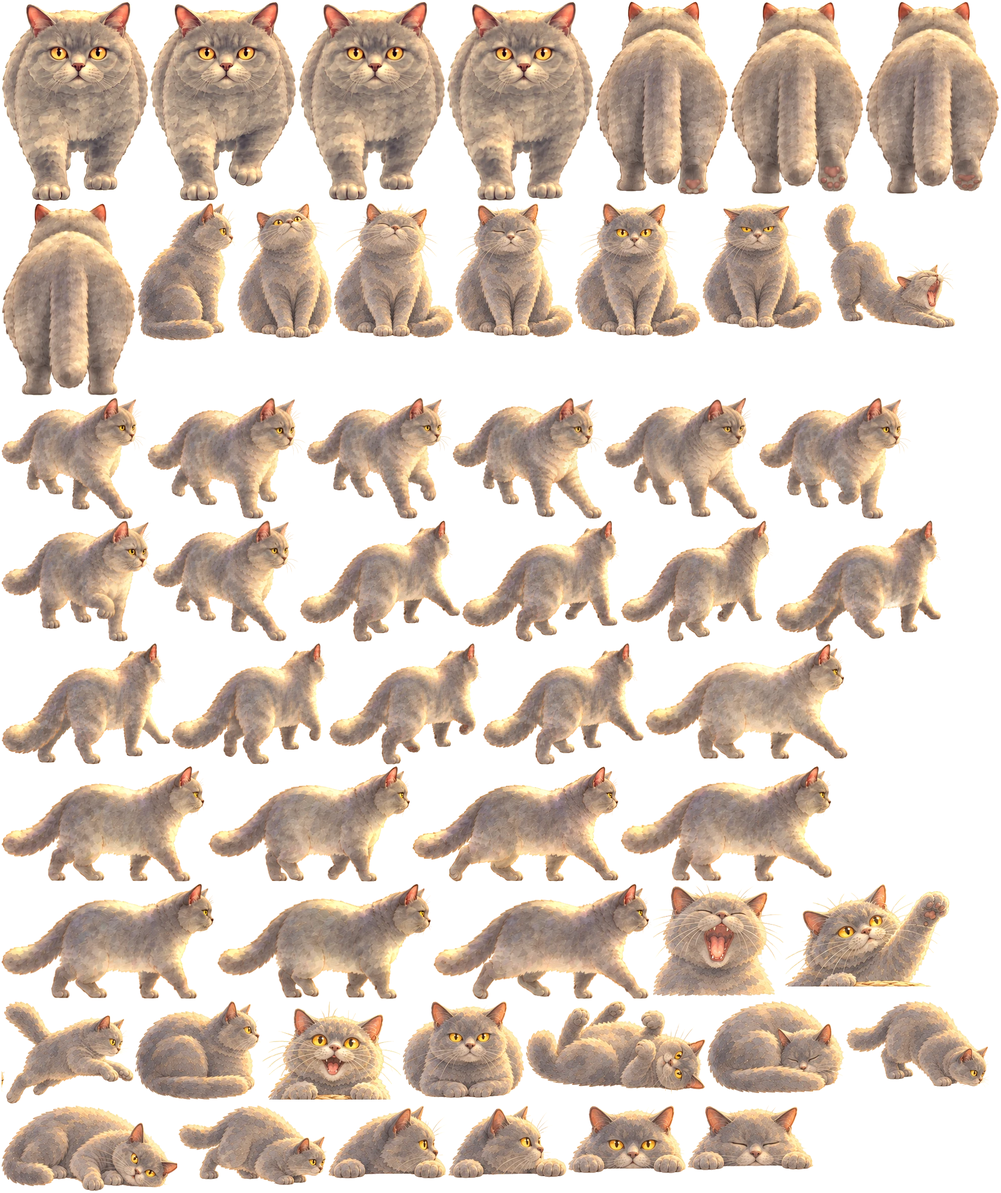
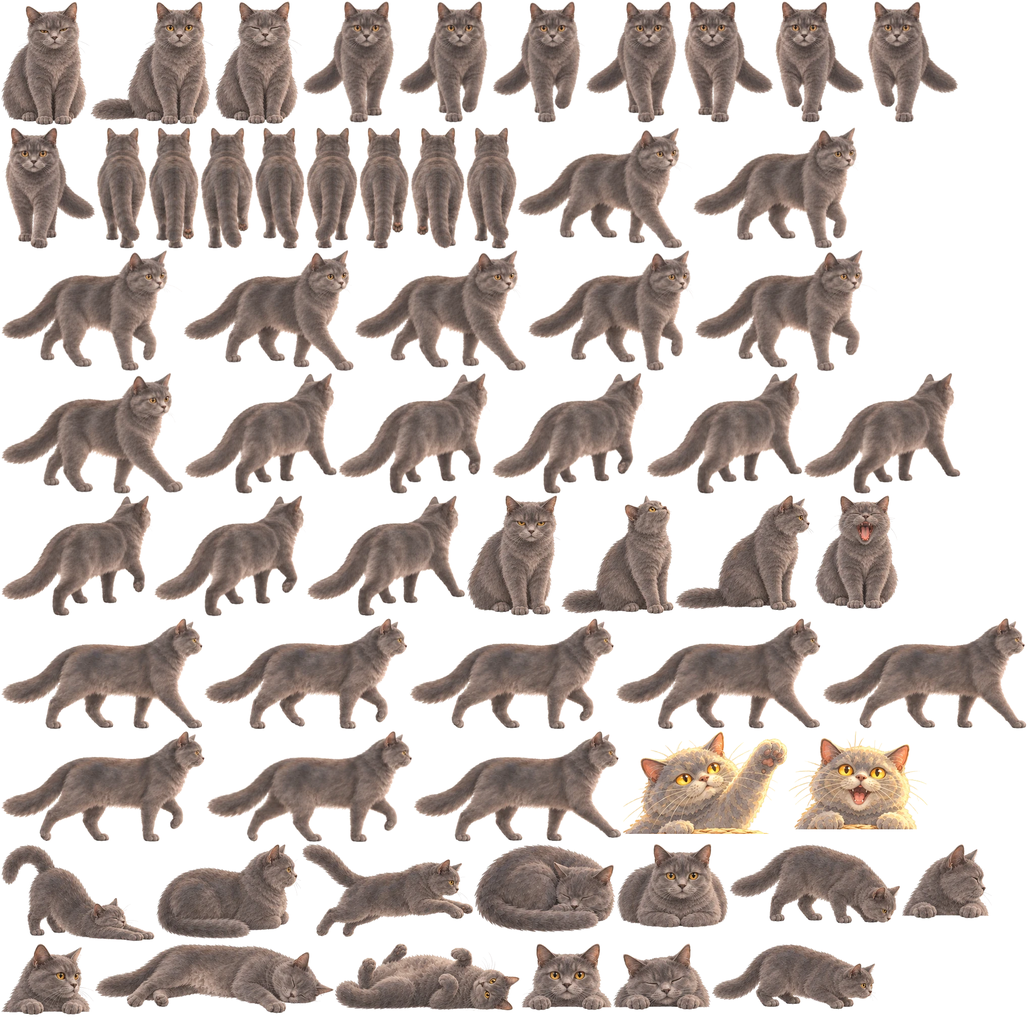
Erwu redrawn: the v3 poses and walks replace her in-game art
- The art build packs the v3 sheets (assets/erwu-v3): twenty poses by
  hand-set regions under their old names, and eight-frame walks side-on,
  toward, away and both diagonals, all recoloured to the poses sheet.
- Toward and away sheets with a whole stride are played as drawn; a
  four-frame sheet is still mirrored for its other half.
- Straight-on walks anchor on her head, so a tail held to one side no
  longer shifts her body sideways.
- The v3 notes list what's left: the diagonals repeat one leg, the tail
  swaps sides walking toward us, she's narrow from behind, and her swat
  and delighted poses are still the old art; with prompts for each.

Claude-Session: https://claude.ai/code/session_01GWXKSyEvwFsod5xmdCeR4s

diff --git a/art-manifest.js b/art-manifest.js
@@ -1,5 +1,5 @@
 /* Generated by tools/build-art.cjs from the painted source sheets in assets/. Do not edit by hand. */
 (function (root) { 'use strict';
-  const ART = {"note":"frame: [x, y, w, h, anchorX, anchorY, sourceX, sourceY, bedRimWidth?]; anchors are where a piece meets the ground","erwu":{"src":"assets/erwu.webp","size":[1983,2363],"frames":{"sit-front":[1139,402,249,265,125,265,39,45],"sit-drowsy":[902,402,234,266,117,266,321,44],"sit-content":[661,402,238,267,119,267,579,44],"curl":[1400,1983,273,183,137,183,834,129],"sniff":[1676,1983,283,172,142,172,7,380],"stalk":[354,2189,294,159,147,159,292,393],"pounce":[3,1983,262,203,131,203,578,344],"stretch":[1631,402,261,249,131,249,852,321],"loaf":[798,1983,241,192,121,192,27,638],"sit-side":[272,402,195,273,98,273,299,568],"belly-up":[1042,1983,355,184,178,184,495,662],"yawn":[1294,1750,258,223,129,223,851,618],"peek":[1126,2189,233,136,117,136,25,902],"peek-glance":[651,2189,234,147,117,147,296,891],"peek-turn":[888,2189,235,146,118,146,568,893],"peek-sleepy":[1362,2189,250,130,125,130,842,910],"look-up":[470,402,188,269,94,269,632,1055],"sit-grumpy":[1391,402,237,250,119,250,868,1076],"lie-side":[3,2189,348,171,174,171,11,1137],"loaf-side":[268,1983,249,196,125,196,360,1119],"walk-0":[1278,1274,402,230,238,230,22,158],"walk-1":[3,1517,406,230,240,230,451,159],"walk-2":[412,1517,401,230,241,230,890,159],"walk-3":[816,1517,410,230,250,230,1323,158],"walk-4":[1229,1517,421,230,246,230,24,503],"walk-5":[3,1750,424,230,251,230,452,504],"walk-6":[430,1750,426,230,252,230,888,508],"walk-7":[859,1750,432,230,257,230,1320,504],"walk-front-0":[3,3,291,396,147,396,79,215],"walk-front-1":[297,3,291,396,146,396,522,215],"walk-front-2":[591,3,291,396,147,396,963,215],"walk-front-3":[885,3,291,396,147,396,1406,215],"walk-back-0":[1179,3,264,383,133,383,88,243],"walk-back-1":[1446,3,265,383,134,383,533,242],"walk-back-2":[1714,3,266,383,134,383,975,243],"walk-back-3":[3,402,266,383,134,383,1419,242],"walk-diag-front-0":[3,788,286,240,147,240,371,215],"walk-diag-front-1":[292,788,313,240,162,240,367,215],"walk-diag-front-2":[608,788,286,240,149,240,369,215],"walk-diag-front-3":[897,788,297,240,153,240,372,215],"walk-diag-front-4":[1197,788,303,240,158,240,442,148],"walk-diag-front-5":[1503,788,302,240,157,240,370,214],"walk-diag-front-6":[3,1031,297,240,163,240,440,153],"walk-diag-front-7":[303,1031,288,240,148,240,371,215],"walk-diag-back-0":[594,1031,318,240,196,240,420,151],"walk-diag-back-1":[915,1031,312,240,203,240,418,151],"walk-diag-back-2":[1230,1031,303,240,191,240,370,135],"walk-diag-back-3":[1536,1031,330,240,215,240,416,151],"walk-diag-back-4":[3,1274,334,240,212,240,418,150],"walk-diag-back-5":[340,1274,309,240,202,240,420,151],"walk-diag-back-6":[652,1274,302,240,196,240,419,150],"walk-diag-back-7":[957,1274,318,240,197,240,418,150],"swat":[1555,1750,326,204,163,204,775,820],"delighted":[520,1983,275,195,138,195,1102,829]}},"garden":{"src":"assets/garden.webp","size":[2032,1938],"frames":{"rose-bed":[3,3,442,403,221,403,17,17],"fountain":[898,3,288,386,144,386,481,29],"log":[461,409,447,337,224,337,792,99],"cushion":[1686,1084,343,205,172,205,34,455],"stone":[834,1692,292,148,146,148,470,492],"step-0":[191,1852,186,81,93,81,903,443],"step-1":[3,1852,185,83,93,83,1043,488],"step-2":[1614,1692,193,101,97,101,819,520],"step-3":[1810,1692,200,95,100,95,991,569],"bed-empty":[1034,1084,384,233,192,233,21,685,385],"bed-seedlings":[658,1084,373,236,187,236,439,687,385],"bed-young":[3,1084,391,251,196,251,841,675,385],"bed-full":[911,409,401,305,201,305,19,919,385],"grass":[1315,409,401,302,201,302,426,926],"meadow":[3,782,410,299,205,299,828,927],"bloom-cosmos":[1731,782,258,253,129,253,11,153,259],"bloom-catnip":[1466,782,262,257,131,257,370,153,259],"bloom-sunflower":[416,782,261,279,131,279,731,122,259],"bloom-moonflower":[1203,782,260,259,130,259,1094,149,259],"bloom-dandelion":[397,1084,258,245,129,245,11,600,259],"bloom-bleeding-heart":[680,782,260,266,130,266,369,570,259],"bloom-strawberry":[1421,1084,262,227,131,227,729,624,259],"bloom-lavender":[943,782,257,260,129,260,1094,580,259],"clump-daisy":[1310,1526,163,157,82,157,29,50],"clump-forget":[484,1526,160,161,80,161,351,42],"clump-cosmos":[3,1526,151,163,76,163,660,38],"clump-lavender":[158,1338,154,175,77,175,962,20],"clump-clover":[1476,1526,157,157,79,157,32,358],"clump-buttercup":[473,1338,155,170,78,170,350,342],"clump-foxglove":[3,1338,152,185,76,185,663,319],"clump-bluebell":[631,1338,158,170,79,170,964,343],"clump-rose":[792,1338,169,168,85,168,26,640],"clump-fern":[166,1692,182,156,91,156,327,655],"clump-grass":[1636,1526,174,157,87,157,648,651],"clump-mushroom":[1467,1692,144,126,72,126,978,711],"clump-wild":[1472,1338,173,165,87,165,25,946],"clump-sweetpea":[315,1338,155,172,78,172,356,934],"clump-cornflower":[157,1526,155,163,78,163,661,948],"clump-leafy":[1295,1692,169,141,84,141,955,980],"clump-tulip":[679,1692,152,149,76,149,33,53],"clump-peony":[1813,1526,161,157,81,157,339,38],"clump-poppy":[647,1526,157,160,78,160,654,34],"clump-aster":[515,1692,161,151,81,151,961,52],"clump-crocus":[1129,1692,163,142,81,142,24,361],"clump-daffodil":[1303,1338,166,166,83,166,330,329],"clump-snowdrop":[351,1692,161,154,81,154,645,346],"clump-forget-spring":[3,1692,160,157,80,157,963,338],"clump-sedum":[1142,1526,165,158,83,158,23,644],"clump-seedgrass":[964,1338,178,167,89,167,321,628],"clump-autumn-shrub":[1648,1338,172,165,86,165,639,632],"clump-coneflower":[807,1526,157,160,79,160,967,639],"clump-hellebore":[315,1526,166,163,83,163,26,940],"clump-holly":[1823,1338,161,164,81,164,335,934],"clump-twigs":[1145,1338,155,167,77,167,648,934],"clump-frost-grass":[967,1526,172,159,86,159,944,941],"rose-bed-spring":[1189,3,418,380,209,380,93,84],"rose-bed-autumn":[448,3,447,401,223,401,58,29],"rose-bed-winter":[3,409,455,370,228,370,37,94]},"basket":{"cx":255,"cy":237,"rx":85,"ry":40,"outerRx":93,"outerRy":49,"bottom":318},"baskets":{"spring":{"cx":219.225,"cy":205.535,"rx":80.17899999999999,"ry":37.74,"outerRx":87.727,"outerRy":46.213,"bottom":281.90299999999996},"autumn":{"cx":230.547,"cy":210.604,"rx":88.171,"ry":41.477,"outerRx":96.45899999999999,"outerRy":50.838,"bottom":294.594},"winter":{"cx":241.31400000000002,"cy":182.632,"rx":92.241,"ry":43.400999999999996,"outerRx":100.899,"outerRy":53.169,"bottom":270.54400000000004}}},"visitors":{"src":"assets/visitors.webp","size":[2014,344],"frames":{"bluejay-perch":[1070,3,133,118,66,118,39,90],"bluejay-drink":[686,261,149,69,74,69,332,182],"bluejay-fly":[3,3,150,148,75,148,679,28],"cardinal-perch":[561,3,136,127,68,127,29,377],"cardinal-peck":[838,261,135,68,67,68,356,489],"cardinal-fly":[156,3,143,143,72,143,701,345],"junco-stand":[1187,154,117,82,59,82,43,725],"junco-peck":[1038,261,113,67,57,67,387,753],"junco-hop":[1386,154,119,81,59,81,712,708],"goldfinch-perch":[1574,3,115,111,57,111,45,958],"goldfinch-peck":[1681,154,120,80,60,80,369,1022],"goldfinch-fly":[433,3,125,135,62,135,736,888],"hummingbird-hover":[1206,3,138,117,69,117,39,1218],"hummingbird-feed":[338,154,153,103,77,103,378,1224],"hummingbird-perch":[3,154,105,104,53,104,768,1251],"cottontail-sit":[1692,3,98,110,49,110,73,33],"cottontail-nibble":[114,261,117,79,58,79,336,104],"cottontail-hop":[801,154,132,93,66,93,604,51],"squirrel-sit":[111,154,114,104,57,104,35,291],"squirrel-run":[936,154,159,91,80,91,286,314],"squirrel-dig":[1347,3,120,112,60,112,606,292],"chipmunk-sit":[1307,154,76,82,38,82,91,557],"chipmunk-cheeks":[1508,154,74,81,37,81,380,558],"chipmunk-run":[1585,261,139,56,69,56,587,590],"frog-sit":[1516,261,66,58,33,58,78,789],"frog-jump":[234,261,112,79,56,79,328,764],"frog-puff":[1437,261,76,60,38,60,671,787],"fox-stand":[936,3,131,120,65,120,15,940],"fox-walk":[1793,3,171,107,85,107,288,965],"fox-sit":[844,3,89,123,44,123,668,936],"bumblebee-side":[707,154,91,97,46,97,78,1224],"bumblebee-top":[1804,154,106,80,53,80,334,1242],"bumblebee-rest":[605,261,78,72,39,72,692,1245],"lunamoth-open":[700,3,141,127,70,127,30,1464],"lunamoth-side":[302,3,128,138,64,138,336,1438],"lunamoth-rest":[1470,3,101,112,50,112,637,1490],"feather":[349,261,77,79,39,79,69,97],"maple-leaf":[1098,154,86,83,43,83,367,79],"oak-leaf":[1585,154,93,81,47,81,666,92],"acorn":[1727,261,46,56,23,56,1047,119],"pine-cone":[976,261,59,68,30,68,86,393],"pebble":[1776,261,60,49,30,49,400,420],"cosmos-head":[429,261,92,75,46,75,671,386],"daisy-head":[1251,261,78,66,39,66,994,400],"acorn-shells":[524,261,78,74,39,74,83,674],"dug-earth":[1332,261,102,66,51,66,343,692],"seed-husks":[1154,261,94,67,47,67,665,681],"nibbled-clover":[1913,154,98,80,49,80,961,666],"rabbit-tracks":[494,154,103,101,51,101,33,935],"bird-tracks":[600,154,104,99,52,99,341,942],"fox-tracks":[228,154,107,104,53,104,646,932],"splash":[3,261,108,80,54,80,956,972]}},"play":{"src":"assets/play.webp","size":[2036,473],"frames":{"petal-white":[1382,257,214,134,107,134,48,78],"petal-pink":[1171,257,208,143,104,143,330,69],"centre":[1014,257,154,145,77,145,626,76],"pollen":[1599,257,104,109,52,109,926,100],"sun":[807,257,204,201,102,201,1146,42],"bud-tulip":[1844,3,189,213,95,213,64,292],"bud-rose":[211,257,201,212,101,212,326,295],"bud-peony":[3,257,205,213,103,213,591,293],"bud-poppy":[415,257,196,211,98,211,876,294],"bud-bell":[614,257,190,206,95,206,1143,301],"open-tulip":[237,3,230,247,115,247,36,537],"open-rose":[1482,3,242,231,121,231,295,548],"open-peony":[980,3,246,238,123,238,570,544],"open-poppy":[1229,3,250,236,125,236,844,549],"open-bell":[3,3,231,251,116,251,1134,534],"basket":[470,3,309,245,155,245,22,821],"seed-pod":[1727,3,114,217,57,217,390,838],"dandelion":[782,3,195,240,98,240,558,819]},"basket":{"cx":178,"cy":925,"rx":125,"ry":50,"outerRx":153,"outerRy":80,"bottom":1062}},"lawn":{"src":"assets/garden-plate-summer.webp","seasons":{"spring":"assets/garden-plate-spring.webp","summer":"assets/garden-plate-summer.webp","autumn":"assets/garden-plate-autumn.webp","winter":"assets/garden-plate-winter.webp"},"fountain":{"x":0.205,"y":0.268,"width":0.27},"log":{"x":0.835,"y":0.262,"width":0.29},"back":0.2}};
+  const ART = {"note":"frame: [x, y, w, h, anchorX, anchorY, sourceX, sourceY, bedRimWidth?]; anchors are where a piece meets the ground","erwu":{"src":"assets/erwu.webp","size":[2037,2016],"frames":{"sit-front":[180,3,242,246,121,246,48,14],"sit-drowsy":[3,3,174,247,87,247,430,13],"sit-content":[425,3,173,245,87,245,769,14],"curl":[940,1673,279,176,140,176,1060,80],"sniff":[1446,1673,338,159,169,159,12,291],"stalk":[1411,1870,328,132,164,132,363,316],"pounce":[599,1673,338,185,169,185,705,260],"stretch":[3,1673,303,194,152,194,1077,266],"loaf":[1222,1673,221,167,111,167,69,512],"sit-side":[1338,982,274,229,137,229,363,459],"belly-up":[664,1870,366,134,183,134,695,543],"yawn":[1615,982,165,226,83,226,1124,466],"peek":[1033,1870,179,134,90,134,91,712],"peek-glance":[3,1870,182,143,91,143,424,704],"peek-turn":[1787,1673,178,149,89,149,771,698],"peek-sleepy":[1215,1870,193,133,97,133,1116,714],"look-up":[1113,982,222,236,111,236,26,853],"sit-grumpy":[925,982,185,239,93,239,379,859],"lie-side":[188,1870,473,139,237,139,586,928],"loaf-side":[309,1673,287,188,144,188,1075,889],"walk-0":[3,1225,399,221,242,221,19,163],"walk-1":[405,1225,403,221,242,221,458,163],"walk-2":[811,1225,406,221,247,221,900,163],"walk-3":[1220,1225,407,221,246,221,1339,163],"walk-4":[1630,1225,404,221,244,221,18,501],"walk-5":[3,1449,403,221,244,221,458,501],"walk-6":[409,1449,408,221,250,221,900,501],"walk-7":[820,1449,411,221,247,221,1339,501],"walk-front-0":[601,3,188,240,124,240,62,69],"walk-front-1":[792,3,182,240,118,240,415,68],"walk-front-2":[977,3,182,240,117,240,769,66],"walk-front-3":[1162,3,185,240,123,240,1129,65],"walk-front-4":[1350,3,182,240,62,240,135,533],"walk-front-5":[1535,3,177,240,59,240,489,532],"walk-front-6":[1715,3,183,240,63,240,839,533],"walk-front-7":[3,253,185,240,65,240,1200,533],"walk-back-0":[191,253,100,240,52,240,152,41],"walk-back-1":[294,253,100,240,50,240,494,41],"walk-back-2":[397,253,105,240,53,240,855,41],"walk-back-3":[505,253,99,240,48,240,1201,41],"walk-back-4":[607,253,102,240,52,240,148,523],"walk-back-5":[712,253,99,240,49,240,498,522],"walk-back-6":[814,253,107,240,54,240,851,522],"walk-back-7":[924,253,100,240,50,240,1202,523],"walk-diag-front-0":[1027,253,344,240,198,240,22,111],"walk-diag-front-1":[1374,253,328,240,202,240,447,111],"walk-diag-front-2":[3,496,358,240,204,240,883,110],"walk-diag-front-3":[364,496,337,240,205,240,1328,106],"walk-diag-front-4":[704,496,339,240,198,240,21,497],"walk-diag-front-5":[1046,496,328,240,200,240,445,496],"walk-diag-front-6":[1377,496,361,240,208,240,882,498],"walk-diag-front-7":[3,739,360,240,213,240,1328,496],"walk-diag-back-0":[366,739,302,240,199,240,13,91],"walk-diag-back-1":[671,739,301,240,196,240,456,89],"walk-diag-back-2":[975,739,303,240,199,240,898,90],"walk-diag-back-3":[1281,739,309,240,203,240,1338,91],"walk-diag-back-4":[1593,739,311,240,199,240,13,513],"walk-diag-back-5":[3,982,299,240,197,240,456,513],"walk-diag-back-6":[305,982,301,240,197,240,899,513],"walk-diag-back-7":[609,982,313,240,200,240,1339,513],"swat":[1234,1449,326,204,163,204,775,820],"delighted":[1563,1449,275,195,138,195,1102,829]}},"garden":{"src":"assets/garden.webp","size":[2032,1938],"frames":{"rose-bed":[3,3,442,403,221,403,17,17],"fountain":[898,3,288,386,144,386,481,29],"log":[461,409,447,337,224,337,792,99],"cushion":[1686,1084,343,205,172,205,34,455],"stone":[834,1692,292,148,146,148,470,492],"step-0":[191,1852,186,81,93,81,903,443],"step-1":[3,1852,185,83,93,83,1043,488],"step-2":[1614,1692,193,101,97,101,819,520],"step-3":[1810,1692,200,95,100,95,991,569],"bed-empty":[1034,1084,384,233,192,233,21,685,385],"bed-seedlings":[658,1084,373,236,187,236,439,687,385],"bed-young":[3,1084,391,251,196,251,841,675,385],"bed-full":[911,409,401,305,201,305,19,919,385],"grass":[1315,409,401,302,201,302,426,926],"meadow":[3,782,410,299,205,299,828,927],"bloom-cosmos":[1731,782,258,253,129,253,11,153,259],"bloom-catnip":[1466,782,262,257,131,257,370,153,259],"bloom-sunflower":[416,782,261,279,131,279,731,122,259],"bloom-moonflower":[1203,782,260,259,130,259,1094,149,259],"bloom-dandelion":[397,1084,258,245,129,245,11,600,259],"bloom-bleeding-heart":[680,782,260,266,130,266,369,570,259],"bloom-strawberry":[1421,1084,262,227,131,227,729,624,259],"bloom-lavender":[943,782,257,260,129,260,1094,580,259],"clump-daisy":[1310,1526,163,157,82,157,29,50],"clump-forget":[484,1526,160,161,80,161,351,42],"clump-cosmos":[3,1526,151,163,76,163,660,38],"clump-lavender":[158,1338,154,175,77,175,962,20],"clump-clover":[1476,1526,157,157,79,157,32,358],"clump-buttercup":[473,1338,155,170,78,170,350,342],"clump-foxglove":[3,1338,152,185,76,185,663,319],"clump-bluebell":[631,1338,158,170,79,170,964,343],"clump-rose":[792,1338,169,168,85,168,26,640],"clump-fern":[166,1692,182,156,91,156,327,655],"clump-grass":[1636,1526,174,157,87,157,648,651],"clump-mushroom":[1467,1692,144,126,72,126,978,711],"clump-wild":[1472,1338,173,165,87,165,25,946],"clump-sweetpea":[315,1338,155,172,78,172,356,934],"clump-cornflower":[157,1526,155,163,78,163,661,948],"clump-leafy":[1295,1692,169,141,84,141,955,980],"clump-tulip":[679,1692,152,149,76,149,33,53],"clump-peony":[1813,1526,161,157,81,157,339,38],"clump-poppy":[647,1526,157,160,78,160,654,34],"clump-aster":[515,1692,161,151,81,151,961,52],"clump-crocus":[1129,1692,163,142,81,142,24,361],"clump-daffodil":[1303,1338,166,166,83,166,330,329],"clump-snowdrop":[351,1692,161,154,81,154,645,346],"clump-forget-spring":[3,1692,160,157,80,157,963,338],"clump-sedum":[1142,1526,165,158,83,158,23,644],"clump-seedgrass":[964,1338,178,167,89,167,321,628],"clump-autumn-shrub":[1648,1338,172,165,86,165,639,632],"clump-coneflower":[807,1526,157,160,79,160,967,639],"clump-hellebore":[315,1526,166,163,83,163,26,940],"clump-holly":[1823,1338,161,164,81,164,335,934],"clump-twigs":[1145,1338,155,167,77,167,648,934],"clump-frost-grass":[967,1526,172,159,86,159,944,941],"rose-bed-spring":[1189,3,418,380,209,380,93,84],"rose-bed-autumn":[448,3,447,401,223,401,58,29],"rose-bed-winter":[3,409,455,370,228,370,37,94]},"basket":{"cx":255,"cy":237,"rx":85,"ry":40,"outerRx":93,"outerRy":49,"bottom":318},"baskets":{"spring":{"cx":219.225,"cy":205.535,"rx":80.17899999999999,"ry":37.74,"outerRx":87.727,"outerRy":46.213,"bottom":281.90299999999996},"autumn":{"cx":230.547,"cy":210.604,"rx":88.171,"ry":41.477,"outerRx":96.45899999999999,"outerRy":50.838,"bottom":294.594},"winter":{"cx":241.31400000000002,"cy":182.632,"rx":92.241,"ry":43.400999999999996,"outerRx":100.899,"outerRy":53.169,"bottom":270.54400000000004}}},"visitors":{"src":"assets/visitors.webp","size":[2014,344],"frames":{"bluejay-perch":[1070,3,133,118,66,118,39,90],"bluejay-drink":[686,261,149,69,74,69,332,182],"bluejay-fly":[3,3,150,148,75,148,679,28],"cardinal-perch":[561,3,136,127,68,127,29,377],"cardinal-peck":[838,261,135,68,67,68,356,489],"cardinal-fly":[156,3,143,143,72,143,701,345],"junco-stand":[1187,154,117,82,59,82,43,725],"junco-peck":[1038,261,113,67,57,67,387,753],"junco-hop":[1386,154,119,81,59,81,712,708],"goldfinch-perch":[1574,3,115,111,57,111,45,958],"goldfinch-peck":[1681,154,120,80,60,80,369,1022],"goldfinch-fly":[433,3,125,135,62,135,736,888],"hummingbird-hover":[1206,3,138,117,69,117,39,1218],"hummingbird-feed":[338,154,153,103,77,103,378,1224],"hummingbird-perch":[3,154,105,104,53,104,768,1251],"cottontail-sit":[1692,3,98,110,49,110,73,33],"cottontail-nibble":[114,261,117,79,58,79,336,104],"cottontail-hop":[801,154,132,93,66,93,604,51],"squirrel-sit":[111,154,114,104,57,104,35,291],"squirrel-run":[936,154,159,91,80,91,286,314],"squirrel-dig":[1347,3,120,112,60,112,606,292],"chipmunk-sit":[1307,154,76,82,38,82,91,557],"chipmunk-cheeks":[1508,154,74,81,37,81,380,558],"chipmunk-run":[1585,261,139,56,69,56,587,590],"frog-sit":[1516,261,66,58,33,58,78,789],"frog-jump":[234,261,112,79,56,79,328,764],"frog-puff":[1437,261,76,60,38,60,671,787],"fox-stand":[936,3,131,120,65,120,15,940],"fox-walk":[1793,3,171,107,85,107,288,965],"fox-sit":[844,3,89,123,44,123,668,936],"bumblebee-side":[707,154,91,97,46,97,78,1224],"bumblebee-top":[1804,154,106,80,53,80,334,1242],"bumblebee-rest":[605,261,78,72,39,72,692,1245],"lunamoth-open":[700,3,141,127,70,127,30,1464],"lunamoth-side":[302,3,128,138,64,138,336,1438],"lunamoth-rest":[1470,3,101,112,50,112,637,1490],"feather":[349,261,77,79,39,79,69,97],"maple-leaf":[1098,154,86,83,43,83,367,79],"oak-leaf":[1585,154,93,81,47,81,666,92],"acorn":[1727,261,46,56,23,56,1047,119],"pine-cone":[976,261,59,68,30,68,86,393],"pebble":[1776,261,60,49,30,49,400,420],"cosmos-head":[429,261,92,75,46,75,671,386],"daisy-head":[1251,261,78,66,39,66,994,400],"acorn-shells":[524,261,78,74,39,74,83,674],"dug-earth":[1332,261,102,66,51,66,343,692],"seed-husks":[1154,261,94,67,47,67,665,681],"nibbled-clover":[1913,154,98,80,49,80,961,666],"rabbit-tracks":[494,154,103,101,51,101,33,935],"bird-tracks":[600,154,104,99,52,99,341,942],"fox-tracks":[228,154,107,104,53,104,646,932],"splash":[3,261,108,80,54,80,956,972]}},"play":{"src":"assets/play.webp","size":[2036,473],"frames":{"petal-white":[1382,257,214,134,107,134,48,78],"petal-pink":[1171,257,208,143,104,143,330,69],"centre":[1014,257,154,145,77,145,626,76],"pollen":[1599,257,104,109,52,109,926,100],"sun":[807,257,204,201,102,201,1146,42],"bud-tulip":[1844,3,189,213,95,213,64,292],"bud-rose":[211,257,201,212,101,212,326,295],"bud-peony":[3,257,205,213,103,213,591,293],"bud-poppy":[415,257,196,211,98,211,876,294],"bud-bell":[614,257,190,206,95,206,1143,301],"open-tulip":[237,3,230,247,115,247,36,537],"open-rose":[1482,3,242,231,121,231,295,548],"open-peony":[980,3,246,238,123,238,570,544],"open-poppy":[1229,3,250,236,125,236,844,549],"open-bell":[3,3,231,251,116,251,1134,534],"basket":[470,3,309,245,155,245,22,821],"seed-pod":[1727,3,114,217,57,217,390,838],"dandelion":[782,3,195,240,98,240,558,819]},"basket":{"cx":178,"cy":925,"rx":125,"ry":50,"outerRx":153,"outerRy":80,"bottom":1062}},"lawn":{"src":"assets/garden-plate-summer.webp","seasons":{"spring":"assets/garden-plate-spring.webp","summer":"assets/garden-plate-summer.webp","autumn":"assets/garden-plate-autumn.webp","winter":"assets/garden-plate-winter.webp"},"fountain":{"x":0.205,"y":0.268,"width":0.27},"log":{"x":0.835,"y":0.262,"width":0.29},"back":0.2}};
   if (typeof module === 'object' && module.exports) module.exports = ART; else root.BloomArt = ART;
 })(typeof globalThis === 'object' ? globalThis : this);

diff --git a/index.html b/index.html
@@ -5438,13 +5438,15 @@
   // one frame has fades with that frame, instead of lingering at full strength over the next.
   let walkCanvas = null, walkView = { view: 'side', from: null, since: -1e9 }, lastWalk = null, turnFacing = { facing: 1, since: -1e9, from: [] }, lastWalkLayers = [];
   const TURN_MS = 200;
-  // Toward and away from us, the sheets hold half a stride (four frames); the other half is the
-  // same frames mirrored, which swaps her left and right paws. The diagonal views face right like
-  // the side walk, and are mirrored the same way when she faces left.
-  const WALK_FRAMES = { side: 8, 'diag-front': 8, 'diag-back': 8, front: 8, back: 8 }, WALK_HALF = { front: 4, back: 4 };
+  // Every view is a stride of eight frames. A toward or away sheet may hold only half a stride
+  // (four frames); then the other half is the same frames mirrored, which swaps her left and right
+  // paws. The diagonal views face right like the side walk, and are mirrored the same way when
+  // she faces left.
+  const WALK_FRAMES = { side: 8, 'diag-front': 8, 'diag-back': 8, front: 8, back: 8 };
+  const walkHalf = (view) => (view === 'front' || view === 'back') && !ART.erwu.frames[`walk-${view}-4`] ? 4 : 0;
   const sideways = (view) => view === 'side' || view === 'diag-front' || view === 'diag-back';
-  const walkName = (view, i) => view === 'side' ? `walk-${i}` : `walk-${view}-${WALK_HALF[view] ? i % WALK_HALF[view] : i}`;
-  const walkLayer = (view, i, weight, flip) => ({ name: walkName(view, i), weight, flip: WALK_HALF[view] && i >= WALK_HALF[view] ? !flip : flip });
+  const walkName = (view, i) => view === 'side' ? `walk-${i}` : `walk-${view}-${walkHalf(view) ? i % walkHalf(view) : i}`;
+  const walkLayer = (view, i, weight, flip) => ({ name: walkName(view, i), weight, flip: walkHalf(view) && i >= walkHalf(view) ? !flip : flip });
   function paintWalk(layers, x, y, h, alpha) {
     const parts = layers.filter((l) => l.weight > 0.01 && ART.erwu.frames[l.name]).map((l) => {
       const f = ART.erwu.frames[l.name], k = h / f[3], a = f[4] * k, b = (f[2] - f[4]) * k;

diff --git a/.scratch/erwu-redraw-v3/README.md b/.scratch/erwu-redraw-v3/README.md
@@ -45,3 +45,45 @@ The model and directional sheets also need common landmark registration. Fixed-s
 Next implementation work: retain the latest likeness/body references, construct each failing gait pose individually against a fixed anchor and limb-overlap drawing, verify opposite contacts, and only then pack. For straight front/back views, the existing runtime can mirror a verified four-frame half-cycle deterministically rather than trusting generated copies. Natural turns still need intermediate heading poses and planted-paw weight transfer.
 
 No live atlas, manifest, build regions, or runtime files changed in this batch. The previous no-squeeze turn fix remains in develop. Production adoption remains incomplete because these gait checks have not passed, not because user permission is missing.
+
+## Packed into the game (2026-09-30)
+
+At the owner's request, the v3 sheets now replace all of Erwu's in-game art (`tools/build-art.cjs`).
+
+**How they're packed:**
+- **Poses sheet:** its 20 poses keep their old names, cut by hand-set regions around each figure. None overlaps a neighbour. It sets her colour.
+- **Walks:** every walk sheet is recoloured to match the poses sheet.
+- **Side walk:** 8 frames, at the sheet's own scale.
+- **Toward, away and both diagonals:** 8 frames each, drawn as they are, each fitted to one height.
+- **Anchors:** the toward and away frames are anchored on her head. A torso anchor followed her tail and would have shifted her body sideways every half-stride.
+
+What the game shows was checked in the browser: every pose, her basket peeks, and all five walk views. The atlas is 817 KB, down from 990 KB. All unit and browser tests pass.
+
+**Still in the old storybook style:** her swat and delighted poses, which come from the play-pieces sheet.
+
+### Issues found, most visible first
+
+1. **The diagonal walks limp.** In both diagonal sheets, frames 5–8 repeat frames 1–4 on the same leg: the near front paw lifts in frames 2–3 and again in 6–7, and the far one never lifts. About half her walking uses these views, so it shows.
+2. **The tail jumps sides in the toward-us walk.** The bottom row is a mirror of the top row, so the legs do alternate, but the big tail swaps from her left to her right between frames 4 and 5. The away walk does it too, less visibly, because the tail stays near the middle.
+3. **She's narrow from behind.** The away-walk cat is about 0.42 as wide as she is tall. The toward-walk body is about 0.5. At the same height she looks slimmer walking away.
+4. **Style.** v3 is a detailed, realistic painting, and the garden, flowers and visitors are storybook watercolour. She now stands out from the scene more than before. That's a matter of taste, not a fault.
+5. **The swat and delighted poses are still the old art.** They show briefly during a run, in the old style.
+
+### Prompts to fix them
+
+Attach `assets/erwu-v3/model.png` and `assets/erwu-v3/poses.png` to every one of these.
+
+**Diagonals, one frame at a time.** For frames 5–8, edit the matching frame 1–4 and swap which leg does what. Crop that frame and attach it as well.
+```
+Edit this single frame of the attached cat walking diagonally [toward / away from] the viewer. Keep her body, head, tail, size, colour, lighting and position exactly the same. Swap ONLY which front leg and which hind leg do what: the leg that is lifted must now be planted, and the planted one lifted to the same height and bend. The near front leg (closest to us) must now be [planted / lifted]. Do not change anything else. Plain light grey background.
+```
+
+**Toward and away walks with the tail centred** (4 frames; the game mirrors them for the other half):
+```
+Edit this sheet: keep the top row's four frames exactly (her legs, body, head, size, colour and light), and delete the bottom row. Move her tail so it is hidden behind her body (walking toward us) or hangs straight down the middle between her hind legs (walking away), the same in all four frames. Keep her [body the same width as in the attached model sheet's front view]. Plain light grey background, four frames in one row, wide gaps.
+```
+
+**Her swat and delighted poses:**
+```
+Two poses of the attached cat, in the same painting style and colour as the attached poses sheet, each on a plain light grey background with wide space around it: (1) sitting side-on facing right, one front paw raised and batting forward at something; (2) sitting facing us, eyes happily closed, mouth slightly open, delighted. Draw each from the chest up only; the lower body is hidden behind a basket rim.
+```
